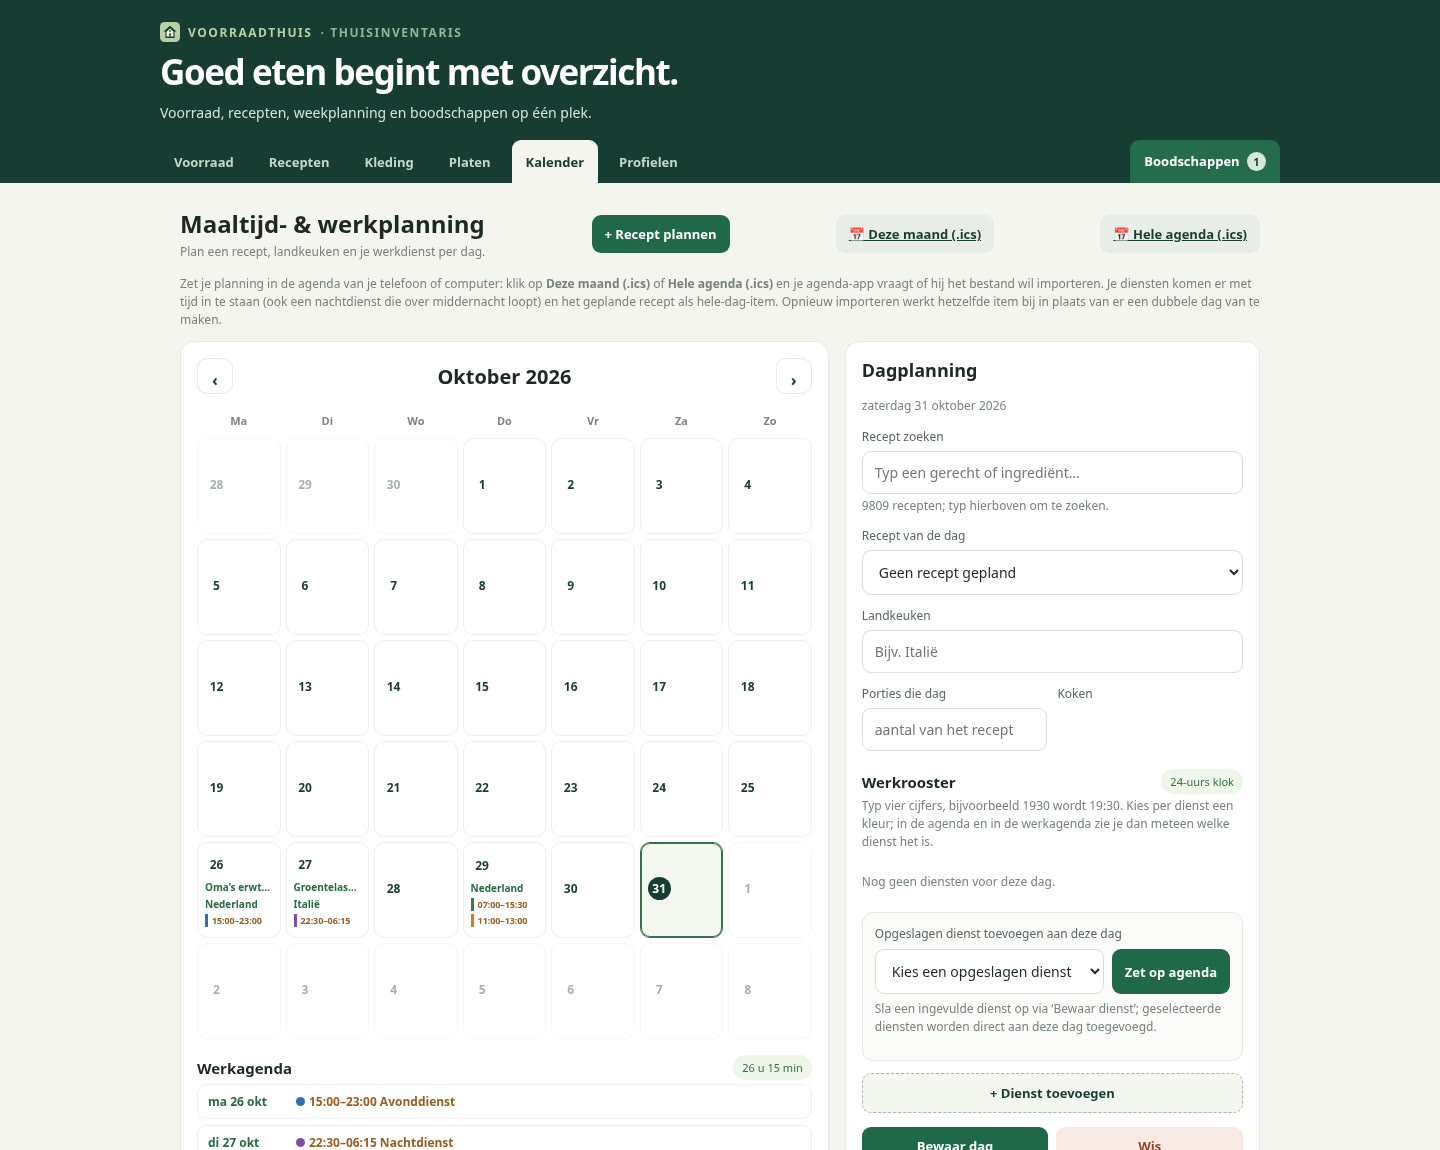
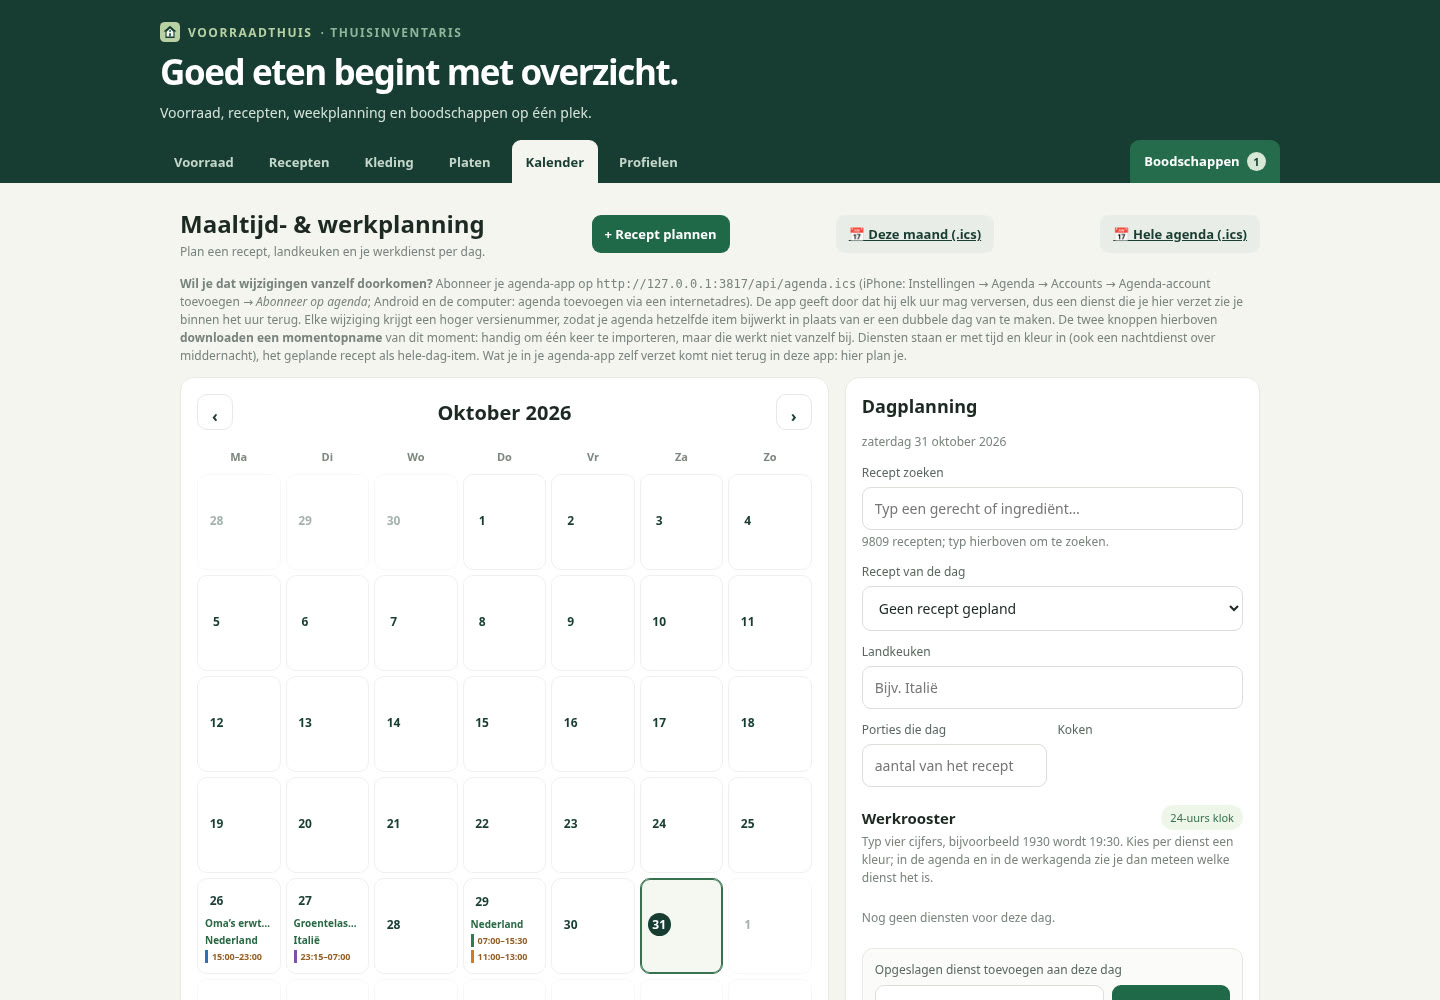
Schermafbeelding bijgewerkt met de uitleg over abonneren op het agenda-adres

diff --git a/README.md b/README.md
@@ -226,7 +226,7 @@ Boven de kalender staan twee knoppen: **📅 Deze maand (.ics)** en **📅 Hele 
 - **Wat je agenda-app ophaalt, is altijd de actuele stand**: het adres leest de planning op het moment van opvragen. Een agenda-app die niets gewijzigd ziet, krijgt van de app een kort `304`-antwoord met een etiket (ETag) in plaats van het hele bestand.
 - Rechtstreeks op te halen: `/api/agenda.ics` voor alles en `/api/agenda.ics?maand=2026-10` voor één maand. Het bestand is een gewone iCalendar-agenda (RFC 5545) met de tijdzone van Nederland erin.
 
-![De twee agenda-knoppen boven de kalender](docs/img/agenda-ics-knoppen.jpg)
+![De twee agenda-knoppen boven de kalender, met de uitleg over abonneren en het adres van de app](docs/img/agenda-ics-knoppen.jpg)
 
 ![Kalenderpagina met de knoppen Deze maand (.ics) en Hele agenda (.ics), diensten met hun kleur en recepten als hele-dag-item](docs/img/agenda-ics-kalender.jpg)
 
